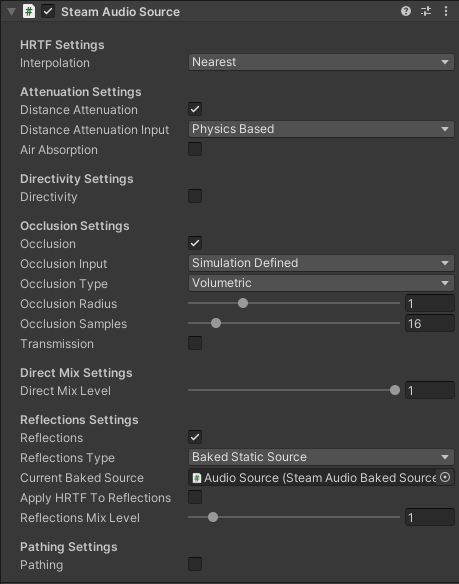
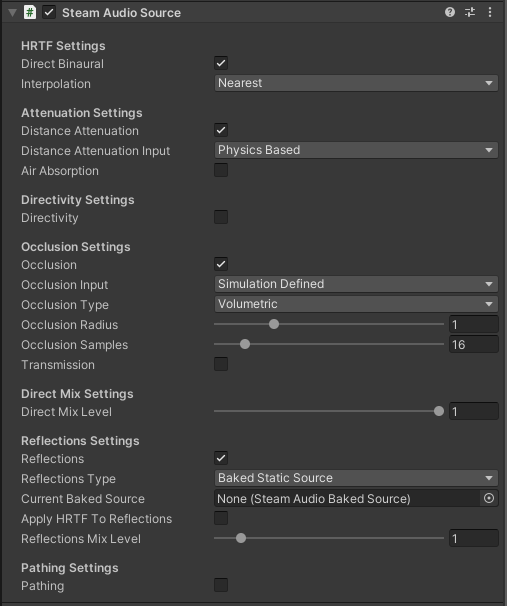
Merge from Perforce 2021-09-13 14:54:21.533000

diff --git a/unity/src/native/spatialize_effect.cpp b/unity/src/native/spatialize_effect.cpp
@@ -39,6 +39,7 @@ enum Params
     PATHING_MIXLEVEL,
     SIMULATION_OUTPUTS_PTR_LOW,
     SIMULATION_OUTPUTS_PTR_HIGH,
+    DIRECT_BINAURAL,
     NUM_PARAMS
 };
 
@@ -74,10 +75,12 @@ UnityAudioParameterDefinition gParamDefinitions[] =
     { "PathMixLevel", "", "Pathing mix level.", 0.0f, 10.0f, 1.0f, 1.0f, 1.0f },
     { "SimOutLow", "", "Simulation outputs (lower 32 bits).", -std::numeric_limits<float>::max(), std::numeric_limits<float>::max(), 0.0f, 1.0f, 1.0f },
     { "SimOutHigh", "", "Simulation outputs (upper 32 bits).", -std::numeric_limits<float>::max(), std::numeric_limits<float>::max(), 0.0f, 1.0f, 1.0f },
+    { "DirectBinaural", "", "Apply HRTF to direct path.", 0.0f, 1.0f, 1.0f, 1.0f, 1.0f },
 };
 
 struct State
 {
+    bool directBinaural;
     bool applyDistanceAttenuation;
     bool applyAirAbsorption;
     bool applyDirectivity;
@@ -121,6 +124,7 @@ struct State
     IPLAudioBuffer reflectionsBuffer;
     IPLAudioBuffer reflectionsSpatializedBuffer;
 
+    IPLPanningEffect panningEffect;
     IPLBinauralEffect binauralEffect;
     IPLDirectEffect directEffect;
     IPLReflectionEffect reflectionEffect;
@@ -159,16 +163,31 @@ InitFlags lazyInit(UnityAudioEffectState* state,
     audioSettings.frameSize = state->dspbuffersize;
 
     auto status = IPL_STATUS_SUCCESS;
-    if (!effect->binauralEffect)
+
+    if (numChannelsOut > 0)
     {
-        IPLBinauralEffectSettings effectSettings;
-        effectSettings.hrtf = gHRTF[1];
+        if (!effect->panningEffect)
+        {
+            IPLPanningEffectSettings effectSettings{};
+            effectSettings.speakerLayout = speakerLayoutForNumChannels(numChannelsOut);
 
-        status = iplBinauralEffectCreate(gContext, &audioSettings, &effectSettings, &effect->binauralEffect);
+            status = iplPanningEffectCreate(gContext, &audioSettings, &effectSettings, &effect->panningEffect);
+        }
+
+        if (status == IPL_STATUS_SUCCESS)
+        {
+            if (!effect->binauralEffect)
+            {
+                IPLBinauralEffectSettings effectSettings;
+                effectSettings.hrtf = gHRTF[1];
+
+                status = iplBinauralEffectCreate(gContext, &audioSettings, &effectSettings, &effect->binauralEffect);
+            }
+        }
+
+        if (status == IPL_STATUS_SUCCESS)
+            initFlags = static_cast<InitFlags>(initFlags | INIT_BINAURALEFFECT);
     }
-
-    if (status == IPL_STATUS_SUCCESS)
-        initFlags = static_cast<InitFlags>(initFlags | INIT_BINAURALEFFECT);
 
     if (numChannelsIn > 0)
     {
@@ -248,15 +267,15 @@ InitFlags lazyInit(UnityAudioEffectState* state,
         if (!effect->directBuffer.data)
             iplAudioBufferAllocate(gContext, numChannelsIn, audioSettings.frameSize, &effect->directBuffer);
 
+        if (!effect->monoBuffer.data)
+            iplAudioBufferAllocate(gContext, 1, audioSettings.frameSize, &effect->monoBuffer);
+
         initFlags = static_cast<InitFlags>(initFlags | INIT_DIRECTAUDIOBUFFERS);
 
         if ((effect->applyReflections || effect->applyPathing) && gIsSimulationSettingsValid)
         {
             auto numAmbisonicChannels = numChannelsForOrder(gSimulationSettings.maxOrder);
 
-            if (!effect->monoBuffer.data)
-                iplAudioBufferAllocate(gContext, 1, audioSettings.frameSize, &effect->monoBuffer);
-            
             if (!effect->reflectionsBuffer.data)
                 iplAudioBufferAllocate(gContext, numAmbisonicChannels, audioSettings.frameSize, &effect->reflectionsBuffer);
             
@@ -288,6 +307,7 @@ void reset(UnityAudioEffectState* state)
 
     effect->inputStarted = false;
 
+    effect->directBinaural = true;
     effect->applyDistanceAttenuation = true;
     effect->applyAirAbsorption = false;
     effect->applyDirectivity = false;
@@ -348,6 +368,7 @@ UNITY_AUDIODSP_RESULT UNITY_AUDIODSP_CALLBACK release(UnityAudioEffectState* sta
     iplAudioBufferFree(gContext, &effect->reflectionsBuffer);
     iplAudioBufferFree(gContext, &effect->reflectionsSpatializedBuffer);
 
+    iplPanningEffectRelease(&effect->panningEffect);
     iplBinauralEffectRelease(&effect->binauralEffect);
     iplDirectEffectRelease(&effect->directEffect);
     iplReflectionEffectRelease(&effect->reflectionEffect);
@@ -372,6 +393,9 @@ UNITY_AUDIODSP_RESULT UNITY_AUDIODSP_CALLBACK getParam(UnityAudioEffectState* st
 
     switch (index)
     {
+    case DIRECT_BINAURAL:
+        *value = (effect->directBinaural) ? 1.0f : 0.0f;
+        break;
     case APPLY_DISTANCEATTENUATION:
         *value = (effect->applyDistanceAttenuation) ? 1.0f : 0.0f;
         break;
@@ -499,6 +523,9 @@ UNITY_AUDIODSP_RESULT UNITY_AUDIODSP_CALLBACK setParam(UnityAudioEffectState* st
 
     switch (index)
     {
+    case DIRECT_BINAURAL:
+        effect->directBinaural = (value == 1.0f);
+        break;
     case APPLY_DISTANCEATTENUATION:
         effect->applyDistanceAttenuation = (value == 1.0f);
         break;
@@ -738,13 +765,25 @@ UNITY_AUDIODSP_RESULT UNITY_AUDIODSP_CALLBACK process(UnityAudioEffectState* sta
 
     iplDirectEffectApply(effect->directEffect, &directParams, &effect->inBuffer, &effect->directBuffer);
 
-    IPLBinauralEffectParams binauralParams;
-    binauralParams.direction = direction;
-    binauralParams.interpolation = effect->hrtfInterpolation;
-    binauralParams.spatialBlend = _spatialBlend;
-    binauralParams.hrtf = gHRTF[0];
+    if (effect->directBinaural)
+    {
+        IPLBinauralEffectParams binauralParams;
+        binauralParams.direction = direction;
+        binauralParams.interpolation = effect->hrtfInterpolation;
+        binauralParams.spatialBlend = _spatialBlend;
+        binauralParams.hrtf = gHRTF[0];
 
-    iplBinauralEffectApply(effect->binauralEffect, &binauralParams, &effect->directBuffer, &effect->outBuffer);
+        iplBinauralEffectApply(effect->binauralEffect, &binauralParams, &effect->directBuffer, &effect->outBuffer);
+    }
+    else
+    {
+        iplAudioBufferDownmix(gContext, &effect->directBuffer, &effect->monoBuffer);
+
+        IPLPanningEffectParams panningParams{};
+        panningParams.direction = direction;
+
+        iplPanningEffectApply(effect->panningEffect, &panningParams, &effect->monoBuffer, &effect->outBuffer);
+    }
 
     for (auto i = 0; i < numChannelsOut; ++i)
     {

diff --git a/unity/src/project/SteamAudioUnity/Assets/Plugins/SteamAudio/Scripts/Editor/SteamAudioSourceInspector.cs b/unity/src/project/SteamAudioUnity/Assets/Plugins/SteamAudio/Scripts/Editor/SteamAudioSourceInspector.cs
@@ -11,6 +11,7 @@ namespace SteamAudio
     [CustomEditor(typeof(SteamAudioSource))]
     public class SteamAudioSourceInspector : Editor
     {
+        SerializedProperty mDirectBinaural;
         SerializedProperty mInterpolation;
         SerializedProperty mDistanceAttenuation;
         SerializedProperty mDistanceAttenuationInput;
@@ -56,6 +57,7 @@ namespace SteamAudio
 
         private void OnEnable()
         {
+            mDirectBinaural = serializedObject.FindProperty("directBinaural");
             mInterpolation = serializedObject.FindProperty("interpolation");
             mDistanceAttenuation = serializedObject.FindProperty("distanceAttenuation");
             mDistanceAttenuationInput = serializedObject.FindProperty("distanceAttenuationInput");
@@ -104,6 +106,7 @@ namespace SteamAudio
 
             if (audioEngineIsUnity)
             {
+                EditorGUILayout.PropertyField(mDirectBinaural);
                 EditorGUILayout.PropertyField(mInterpolation);
             }
 

diff --git a/fmod/include/phonon/phonon.h b/fmod/include/phonon/phonon.h
@@ -336,8 +336,12 @@ IPLAPI IPLbyte* IPLCALL iplSerializedObjectGetData(IPLSerializedObject serialize
 DECLARE_OPAQUE_HANDLE(IPLEmbreeDevice);
 
 /** Settings used to create an Embree device. */
+#if defined(__cplusplus) || defined(__DOXYGEN__)
 typedef struct {
 } IPLEmbreeDeviceSettings;
+#else
+typedef void IPLEmbreeDeviceSettings;
+#endif
 
 /** Creates an Embree device.
 
@@ -568,8 +572,12 @@ IPLAPI void IPLCALL iplOpenCLDeviceRelease(IPLOpenCLDevice* device);
 DECLARE_OPAQUE_HANDLE(IPLRadeonRaysDevice);
 
 /** Settings used to create a Radeon Rays device. */
+#if defined(__cplusplus) || defined(__DOXYGEN__)
 typedef struct {
 } IPLRadeonRaysDeviceSettings;
+#else
+typedef void IPLRadeonRaysDeviceSettings;
+#endif
 
 /** Creates a Radeon Rays device.
 

diff --git a/unity/include/phonon/phonon.h b/unity/include/phonon/phonon.h
@@ -336,8 +336,12 @@ IPLAPI IPLbyte* IPLCALL iplSerializedObjectGetData(IPLSerializedObject serialize
 DECLARE_OPAQUE_HANDLE(IPLEmbreeDevice);
 
 /** Settings used to create an Embree device. */
+#if defined(__cplusplus) || defined(__DOXYGEN__)
 typedef struct {
 } IPLEmbreeDeviceSettings;
+#else
+typedef void IPLEmbreeDeviceSettings;
+#endif
 
 /** Creates an Embree device.
 
@@ -568,8 +572,12 @@ IPLAPI void IPLCALL iplOpenCLDeviceRelease(IPLOpenCLDevice* device);
 DECLARE_OPAQUE_HANDLE(IPLRadeonRaysDevice);
 
 /** Settings used to create a Radeon Rays device. */
+#if defined(__cplusplus) || defined(__DOXYGEN__)
 typedef struct {
 } IPLRadeonRaysDeviceSettings;
+#else
+typedef void IPLRadeonRaysDeviceSettings;
+#endif
 
 /** Creates a Radeon Rays device.
 

diff --git a/unity/src/project/SteamAudioUnity/Assets/Plugins/SteamAudio/Scripts/Runtime/UnityAudioEngineSource.cs b/unity/src/project/SteamAudioUnity/Assets/Plugins/SteamAudio/Scripts/Runtime/UnityAudioEngineSource.cs
@@ -53,6 +53,7 @@ namespace SteamAudio
             mAudioSource.SetSpatializerFloat(index++, (source.applyHRTFToPathing) ? 1.0f : 0.0f);
             mAudioSource.SetSpatializerFloat(index++, source.pathingMixLevel);
             SetSpatializerIntPtr(source.GetSource().Get(), ref index);
+            mAudioSource.SetSpatializerFloat(index++, (source.directBinaural) ? 1.0f : 0.0f);
         }
 
         void SetSpatializerIntPtr(IntPtr ptr, ref int index)

diff --git a/fmod/include/phonon/phonon_version.h b/fmod/include/phonon/phonon_version.h
@@ -8,7 +8,7 @@
 
 #define STEAMAUDIO_VERSION_MAJOR 4
 #define STEAMAUDIO_VERSION_MINOR 0
-#define STEAMAUDIO_VERSION_PATCH 0
+#define STEAMAUDIO_VERSION_PATCH 1
 #define STEAMAUDIO_VERSION       (((uint32_t)(STEAMAUDIO_VERSION_MAJOR) << 16) | \
                                   ((uint32_t)(STEAMAUDIO_VERSION_MINOR) << 8) |  \
                                   ((uint32_t)(STEAMAUDIO_VERSION_PATCH)))

diff --git a/unity/include/phonon/phonon_version.h b/unity/include/phonon/phonon_version.h
@@ -8,7 +8,7 @@
 
 #define STEAMAUDIO_VERSION_MAJOR 4
 #define STEAMAUDIO_VERSION_MINOR 0
-#define STEAMAUDIO_VERSION_PATCH 0
+#define STEAMAUDIO_VERSION_PATCH 1
 #define STEAMAUDIO_VERSION       (((uint32_t)(STEAMAUDIO_VERSION_MAJOR) << 16) | \
                                   ((uint32_t)(STEAMAUDIO_VERSION_MINOR) << 8) |  \
                                   ((uint32_t)(STEAMAUDIO_VERSION_PATCH)))

diff --git a/unity/src/project/SteamAudioUnity/Assets/Plugins/SteamAudio/Scripts/Runtime/SteamAudioSource.cs b/unity/src/project/SteamAudioUnity/Assets/Plugins/SteamAudio/Scripts/Runtime/SteamAudioSource.cs
@@ -59,6 +59,7 @@ namespace SteamAudio
     public class SteamAudioSource : MonoBehaviour
     {
         [Header("HRTF Settings")]
+        public bool directBinaural = true;
         public HRTFInterpolation interpolation = HRTFInterpolation.Nearest;
 
         [Header("Attenuation Settings")]

diff --git a/unity/doc/guide.rst b/unity/doc/guide.rst
@@ -29,13 +29,13 @@ In Unity, you configure individual audio clips as Ambisonic, instead of audio so
 
 .. image:: media/audioclip_ambisonic.png
 
-.. note:: 
-    
+.. note::
+
     Uncheck **Spatialize** on any Audio Source that will play an Ambisonic audio clip.
 
 .. note::
-    
-    Unity supports up to 2nd order Ambisonic clips. They must use AmbiX (ACN/SN3D) layout. For more information, refer to the `Unity documentation <https://docs.unity3d.com/Manual/AmbisonicAudio.html>`_.
+
+    Unity supports up to 1st order Ambisonic clips. They must use AmbiX (ACN/SN3D) layout. For more information, refer to the `Unity documentation <https://docs.unity3d.com/Manual/AmbisonicAudio.html>`_.
 
 You can control how an Ambisonic audio clip is spatialized using the :doc:`Steam Audio Ambisonic Source <ambisonic-source>` component.
 
@@ -129,7 +129,7 @@ This field can also be controlled by custom scripts, so you can provide your own
 HRTFs loaded from SOFA files affect direct and indirect sound generated by audio sources, as well as reverb rendered using the Steam Audio Reverb mixer effect.
 
 .. warning::
-    
+
     The SOFA file format allows for very flexible ways of defining HRTFs, but Steam Audio only supports a restricted subset. The following restrictions apply (for more information, including definitions of the terms below, click `here <https://www.sofaconventions.org>`_:
 
    -   SOFA files must use the ``SimpleFreeFieldHRIR`` convention.
@@ -156,7 +156,7 @@ You can use Steam Audio to model how your scene geometry causes occlusion, refle
 Not all objects have a noticeable influence on acoustics. For example, in a large hangar, the room itself obviously influences the acoustics. A small tin can on the floor, though, most likely doesn’t. But large amounts of small objects can collectively influence the acoustics. For example, while a single wooden crate might not influence the hangar reverb, large stacks of crates are likely to have some impact.
 
 .. note::
-    
+
     You don’t need to create an additional mesh just to tag an object as Steam Audio Geometry. You can directly use the same meshes used for visual rendering.
 
 Once you’ve tagged all the geometry in the scene, export it:
@@ -180,12 +180,12 @@ You can mark specific GameObjects as *dynamic geometry*, which tells Steam Audio
 
 .. image:: media/dynamic_object.png
 
-At run-time, any changes made to the Transform of the Steam Audio Dynamic Object component has been attached will automatically be passed to Steam Audio.
+At run-time, any changes made to the Transform of the GameObject to which the Steam Audio Dynamic Object component has been attached will automatically be passed to Steam Audio.
 
 You can attach a Steam Audio Dynamic Object component in a prefab as well. After exporting it, the prefab can be freely instantiated in any scene and moved around; Steam Audio will automatically update acoustic effects accordingly. For example, this can be used to create a door prefab that automatically occludes sound when added to any scene, or large walls that a player can build, which automatically reflect sound.
 
 .. warning::
-    
+
     Changes made to the transforms of children of the Steam Audio Dynamic Object will *not* be passed to Steam Audio. The entire object and all its children must move/animate as a rigid body.
 
 For more information, see :doc:`Steam Audio Dynamic Object <dynamic-object>`.
@@ -398,7 +398,7 @@ To enable GPU acceleration for real-time simulations or baking:
 To enable GPU acceleration for convolution reverb:
 
 1. In the main menu, click **Steam Audio** > **Settings**.
-2. Set **Indirect Effect Type** to **TrueAudio Next**.
+2. Set **Reflection Effect Type** to **TrueAudio Next**.
 
 `TrueAudio Next <https://gpuopen.com/true-audio-next>`_ is an OpenCL-based GPU convolution tool that requires supported AMD GPUs. TrueAudio Next support in Steam Audio is available on Windows 64-bit only.
 

diff --git a/unity/doc/settings.rst b/unity/doc/settings.rst
@@ -21,7 +21,7 @@ Default Material
 Scene Type
     Specifies the ray tracing implementation to use for simulations.
 
-    -   *Phonon*. Steam Audio's built-in ray tracer. Runs on all platforms that Steam Audio supports.
+    -   *Default*. Steam Audio's built-in ray tracer. Runs on all platforms that Steam Audio supports.
     -   *Embree*. The Intel\ |reg| Embree ray tracer. Provides improved performance compared to Steam Audio's built-in ray tracer. Supported only on Windows, Linux, and macOS.
     -   *Radeon Rays*. The AMD Radeon\ |tm| Rays ray tracer. This is an OpenCL implementation, and can use either the CPU or any GPU that supports OpenCL 1.2 or later. If using the GPU, it is likely to be significantly faster than Steam Audio's built-in ray tracer. However, with heavy real-time simulation workloads, it may impact your application's frame rate. On supported AMD GPUs, you can use the Resource Reservation feature to mitigate this issue. Supported only on Windows 64-bit.
     -   *Unity*. Unity's built-in ray tracer. Runs on all platforms that Steam Audio supports. Does not require Steam Audio Geometry components to be attached anywhere, or scene data to be exported. However, this is the slowest of the available options, and is not suitable for modeling reflections, reverb, or pathing.

diff --git a/unity/doc/mixer-return.rst b/unity/doc/mixer-return.rst
@@ -4,12 +4,12 @@ Steam Audio Mixer Return
 When **Reflections** are enabled for multiple Steam Audio Sources in a scene, this mixer effect can be used to reduce the CPU cost of audio processing. When this mixer effect is added to a mixer group, the indirect portion of every audio source’s output is taken out of Unity’s audio pipeline, mixed, spatialized, and re-inserted at the mixer group to which this effect is attached. The direct sound path of audio sources is not affected.
 
 .. note::
-    
+
     Since indirect sound is taken out of Unity’s audio pipeline at the Audio Source, any effects applied between the Audio Source and the Steam Audio Mixer Return effect will not apply to the indirect sound.
 
 .. note::
-    
-    This effect should only be used if **Indirect Effect Type** is set to **Convolution** or **TrueAudio Next** in the Settings asset. It is *required* when using **TrueAudio Next**.
+
+    This effect should only be used if **Reflection Effect Type** is set to **Convolution** or **TrueAudio Next** in the Settings asset. It is *required* when using **TrueAudio Next**.
 
 .. image:: media/mixer_return.png
 

diff --git a/unity/doc/source.rst b/unity/doc/source.rst
@@ -7,6 +7,9 @@ Must be attached to a GameObject containing an Audio Source (if using Unity's bu
 
 .. image:: media/source.png
 
+Direct Binaural
+    If checked, HRTF-based binaural rendering will be used to spatialize the source. This requires 2-channel (stereo) audio output. If unchecked, panning will be used to the spatialize the source using the user's speaker layout. Binaural rendering provides improved spatialization at the cost of slightly increased CPU usage.
+
 Interpolation
     Controls how HRTFs are interpolated when the source moves relative to the listener.
 
@@ -90,7 +93,7 @@ Directivity Value
 
 Occlusion
     *If using Unity's built-in audio engine*
-        If checked, attenuation based on the occlusion the source by the scene geometry will be applied to the Audio Source.
+        If checked, attenuation based on the occlusion of the source by the scene geometry will be applied to the Audio Source.
 
     *If using FMOD Studio*
         If checked, ray tracing will be used to determine how much of the source is occluded.
